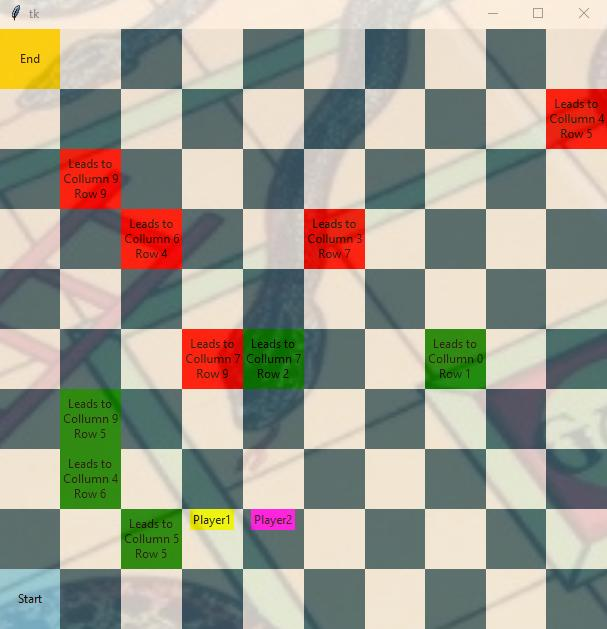
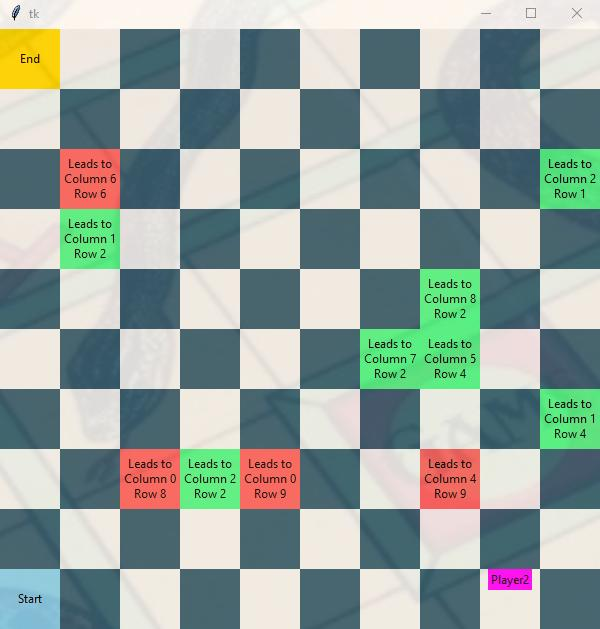
added env file

diff --git a/main.py b/main.py
@@ -7,6 +7,7 @@ from SnL_generator import SnL_generator
 import random
 import CAP
 import os
+from dotenv import load_dotenv
 import datetime as dt
 import random
 import time
@@ -102,7 +103,7 @@ async def new(ctx, *player_args_):
           new_board=False
           Grid=SnL_generator(difficulty)
           for i in range(len(players)):
-            players_pos.append([0,7])
+            players_pos.append([9,0])
             players_clrs.append(colors[i])
     else:
         await ctx.send("You already have a game running_")
@@ -143,4 +144,5 @@ async def roll(ctx):
     else:
         await ctx.send("It is not Your Chance, {} play your chance!!".format(players[turn]))
 
-bot.run("ODYxODYzMTkwOTIxMDg0OTM5.YOP-pQ.R5_SxQ-mnP_4m2uqZwLSy7Hcw9U")
+load_dotenv()
+bot.run(os.environ.get("BOT_TOKEN"))
